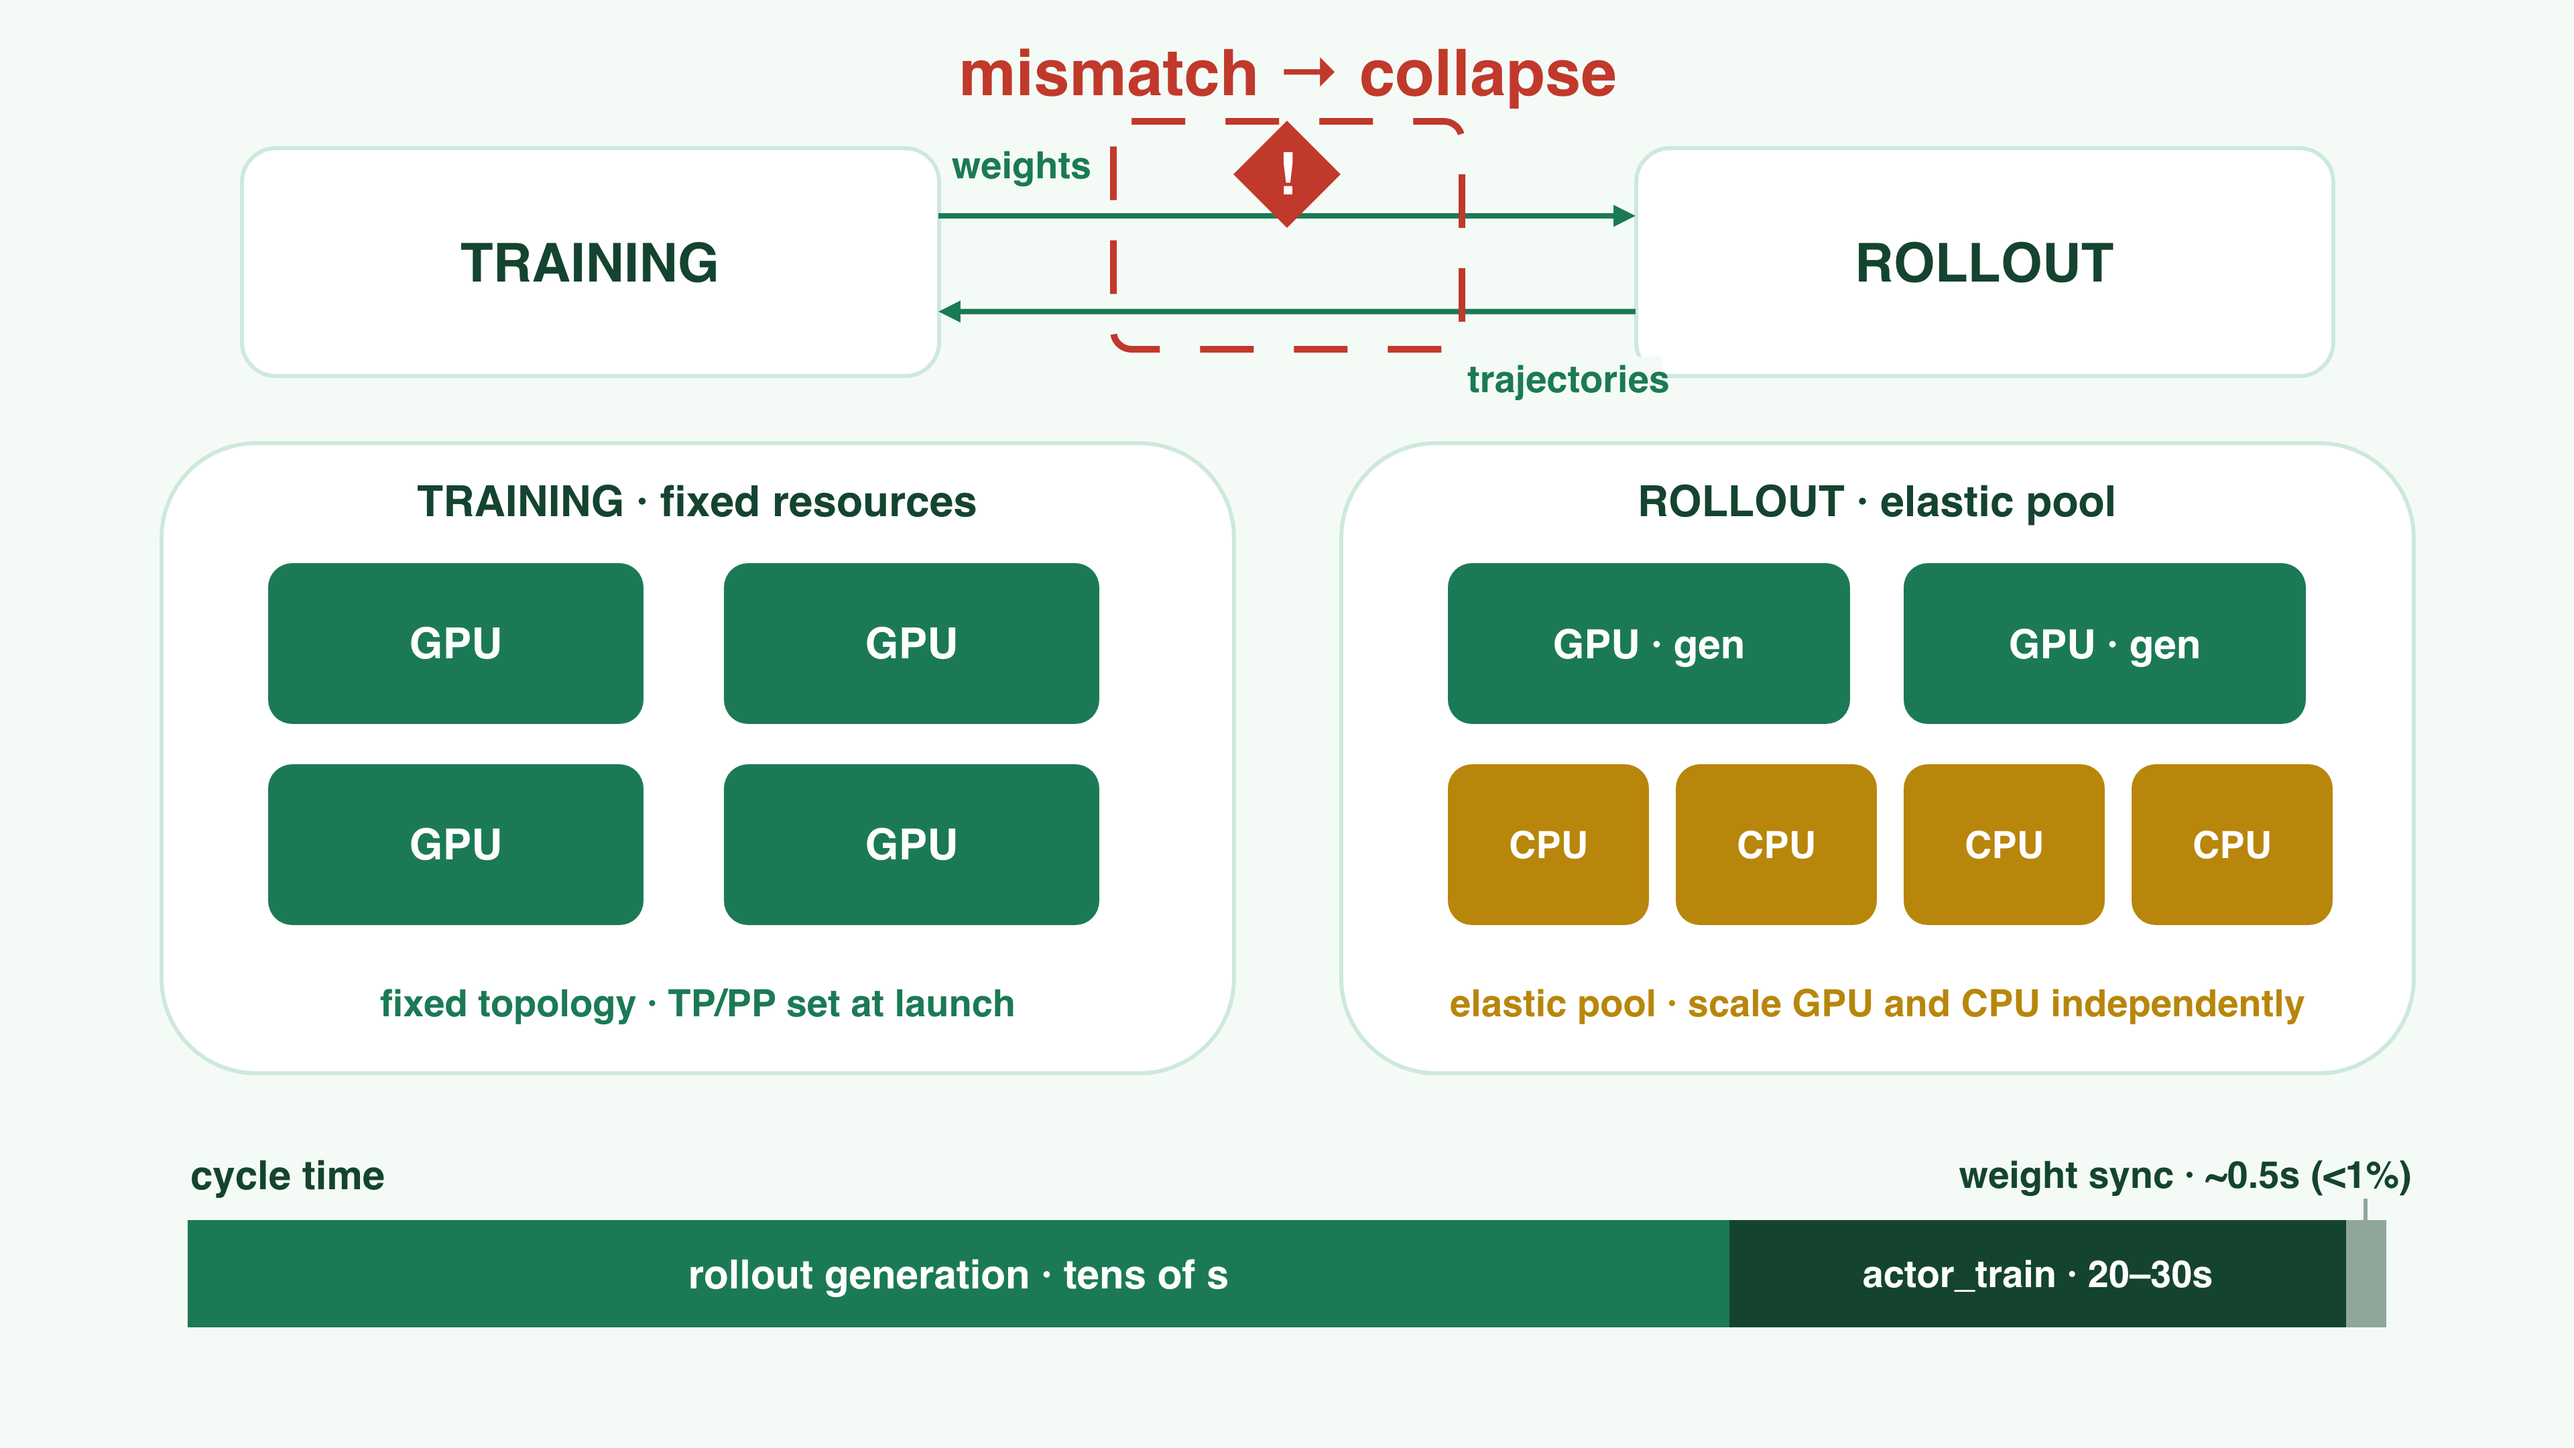
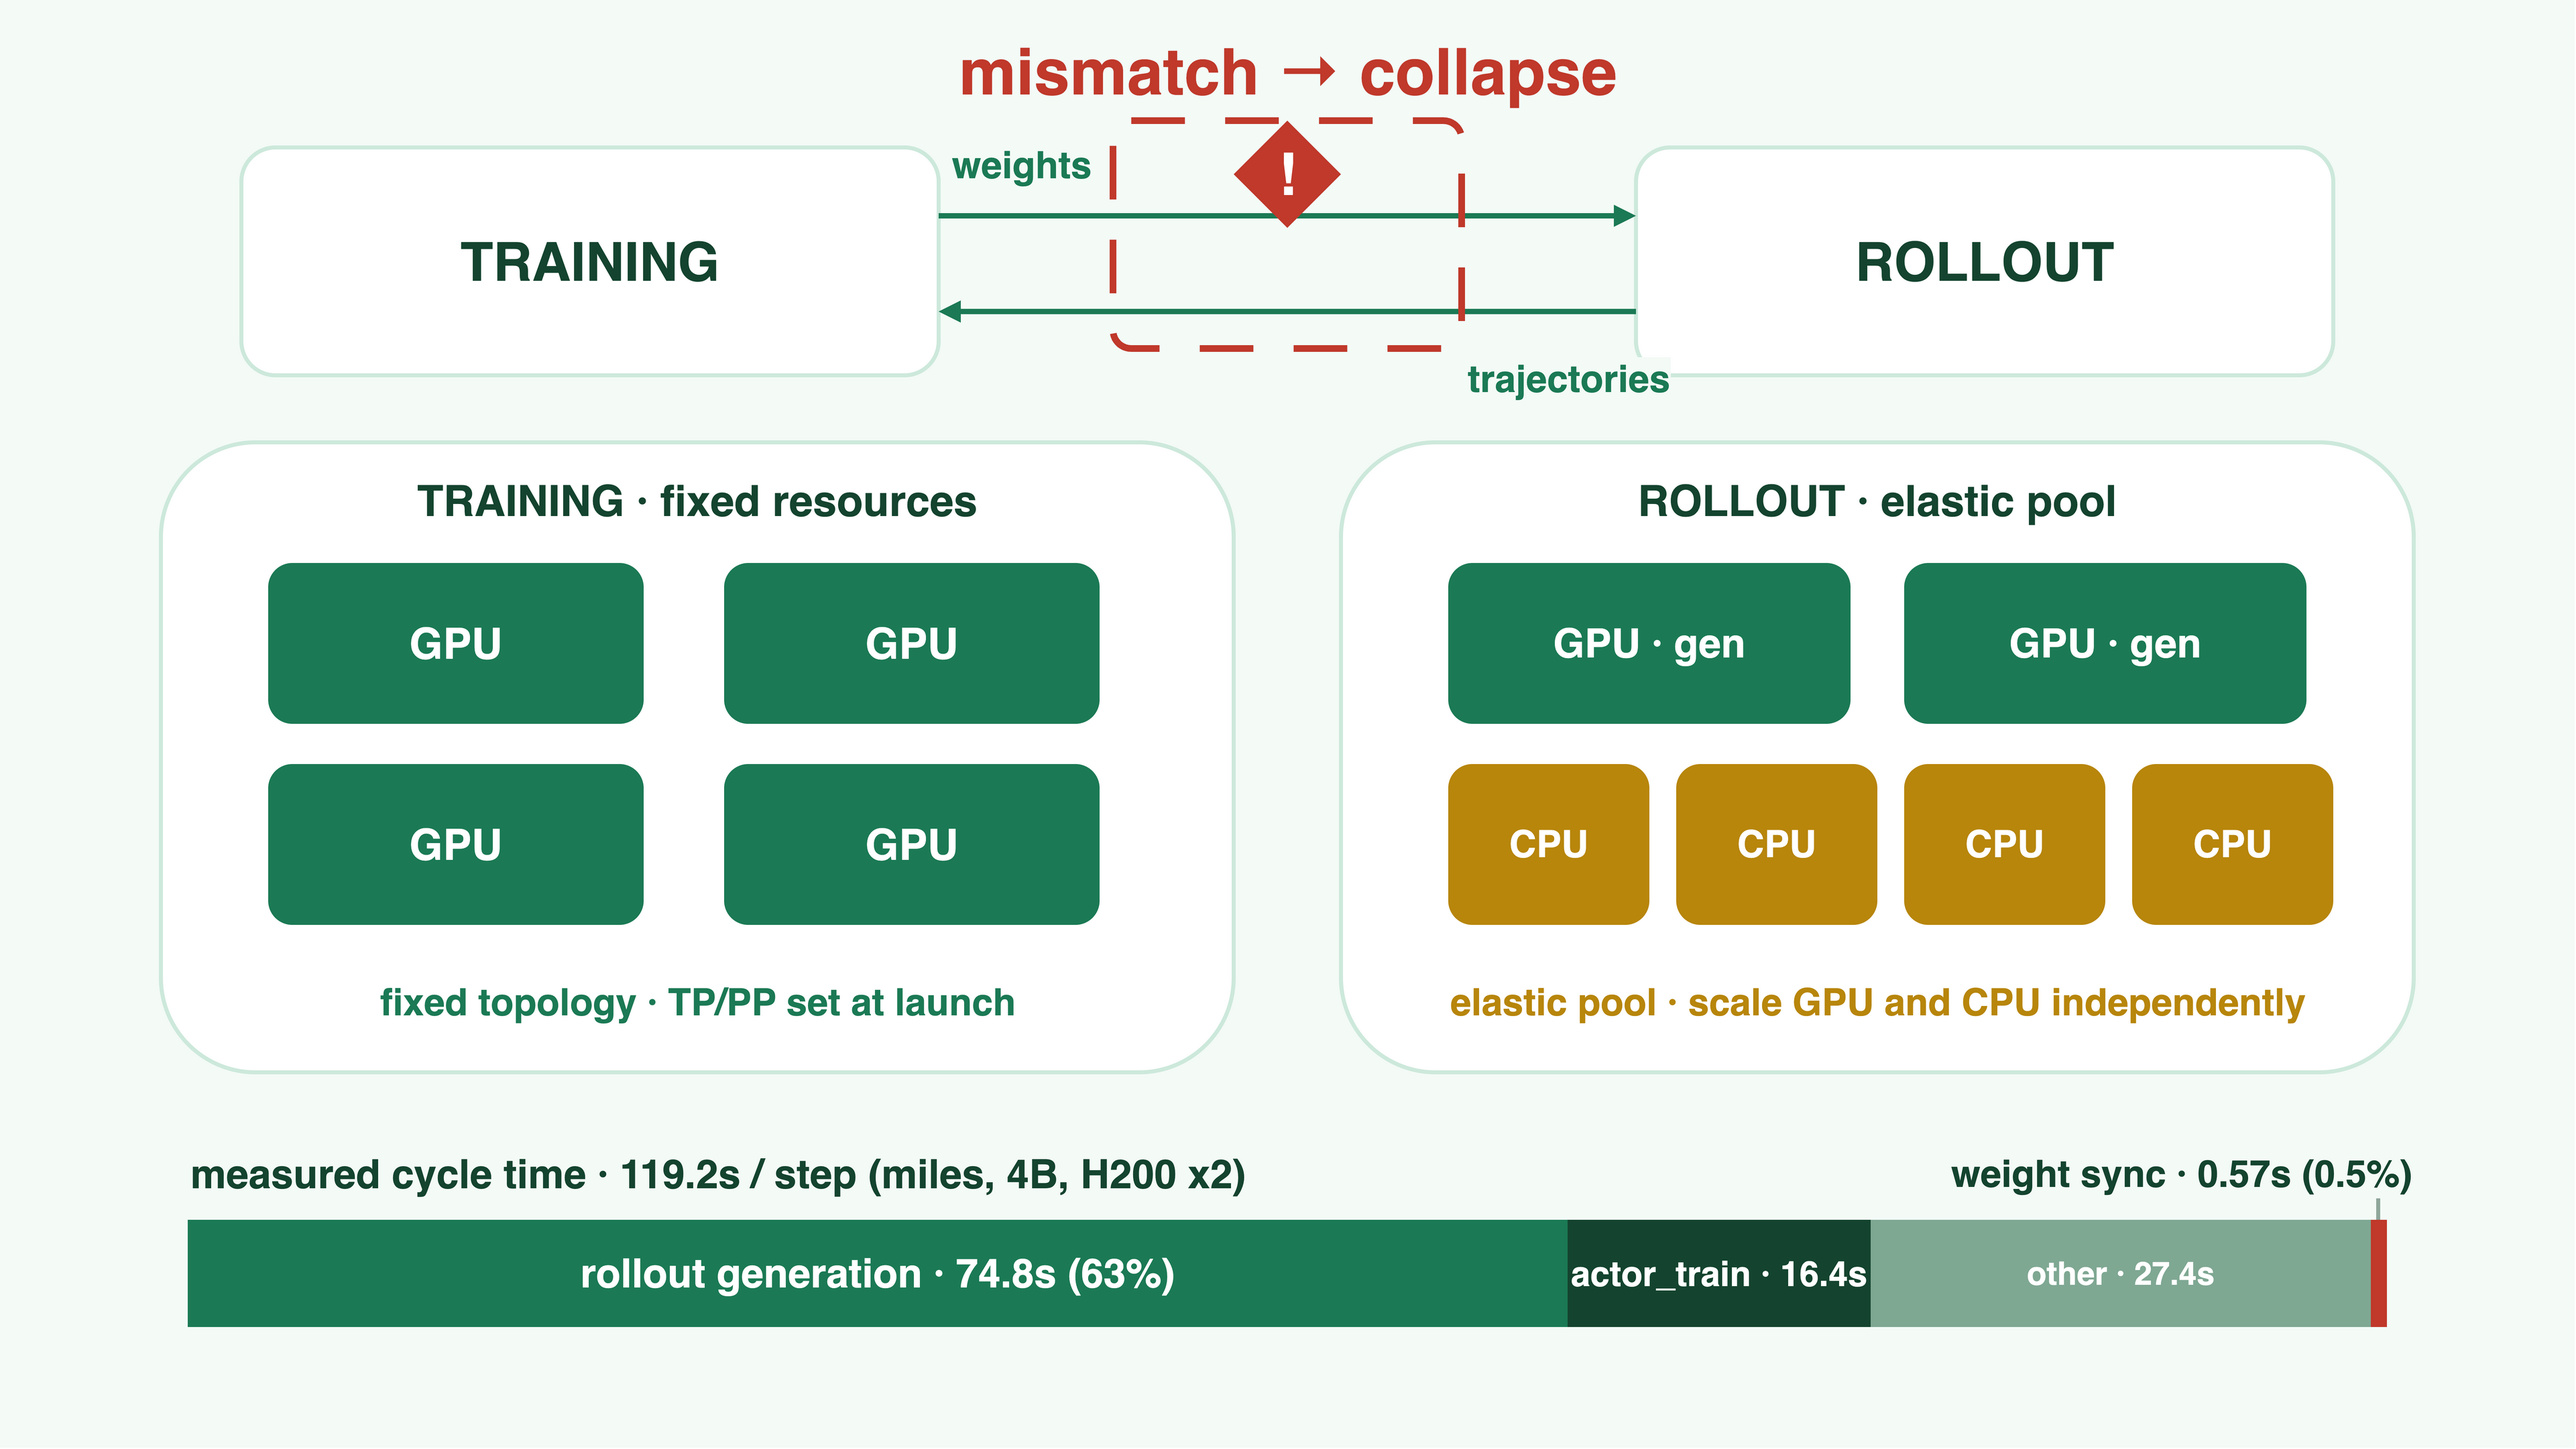
talk(mismatch): use measured cycle-time on slide5; fix slide14 T^2 misattribution
slide5 cycle bar now reflects miles-2node-4b (119.2s/step, rollout 74.8s, actor_train 16.4s, weight sync 0.57s). slide14 drops the step-axis O(T^2)/O(T) dashed lines and the eps.T^2 callout (T is response length, a within-step bound; the step-axis divergence is step-to-step feedback). Speaker notes updated accordingly.

diff --git a/2026-07-19-miles-training-inference-mismatch/talk/slides/speaker_notes.md b/2026-07-19-miles-training-inference-mismatch/talk/slides/speaker_notes.md
@@ -55,12 +55,12 @@ I am currently building a miles GRPO test case in the same repository. miles is 
 ## Slide 5 -- Beyond the network in GRPO
 
 [EN]
-This slide summarizes the three things to be aware of beyond the network when running GRPO at scale. The bottom bar shows one example of a cycle time breakdown. Rollout generation dominates at tens of seconds. actor_train, the backward pass and optimizer step, takes 20 to 30 seconds. Weight sync over the network is about 0.5 seconds, under 1 percent of the total cycle. The network matters, but it may not be the dominant cost.
+This slide summarizes the three things to be aware of beyond the network when running GRPO at scale. The bottom bar is our actual measurement, from a miles run on 4B, H200 times two: one step is 119.2 seconds. Rollout generation dominates at 74.8 seconds, about 63 percent of the step. actor_train, the backward pass and optimizer step, is 16.4 seconds here at 4B — it grows with model size, roughly 38 seconds at 30B. The rest, about 27 seconds, is mostly the reference-model log-prob pass, about 22 seconds, plus sleep and wake-up overhead. And weight sync over the network is just 0.57 seconds, half a percent of the whole step. The network matters, but in this case it was not the dominant cost.
 Now look at the two pools. Training on the left is a fixed topology. You set TP, PP, and DP at launch and it does not change while the job runs. Rollout on the right is an elastic pool. It uses both GPU for generation and CPU for environment evaluation, and you can scale them independently. These two sides scale differently, and that asymmetry is something to keep in mind when sizing a cluster.
 The red boundary at the top is the point that requires attention. The weight sync arrow and the trajectory arrow are the only information exchange between training and rollout. If the two engines compute slightly different numbers for the same tokens, that difference accumulates silently until the policy collapses. That mismatch-induced collapse is the main subject of this talk, and we go into it next.
 
 [JA]
-このスライドはGRPOをスケールで動かすときにネットワーク以外で意識すべき3つのことをまとめています。下のバーはサイクルタイムの内訳の一例です。ロールアウトの生成が数十秒で支配的です。actor_train、つまりbackwardとoptimizer更新が20から30秒です。ネットワーク経由のweight syncは約0.5秒、サイクル全体の1%未満です。ネットワークは重要ですが、支配的なコストではない可能性があります。
+このスライドはGRPOをスケールで動かすときにネットワーク以外で意識すべき3つのことをまとめています。下のバーは実際の今回の実測で、milesの4B、H200×2のrunです。1ステップが119.2秒です。ロールアウトの生成が74.8秒で支配的、ステップ全体の約63%です。actor_train、つまりbackwardとoptimizer更新は、ここでは4Bで16.4秒です。これはモデルサイズとともに伸び、30Bなら約38秒です。残りの約27秒は、大半が参照モデルのlog-prob計算で約22秒、それにsleepやwake-upのオーバーヘッドが乗ります。そしてネットワーク経由のweight syncはわずか0.57秒、ステップ全体の0.5%です。ネットワークは重要ですが、今回のケースでは支配的なコストではありませんでした。
 次に2つのプールを見てください。左のtrainingは固定トポロジーです。TP、PP、DPを起動時に設定したら、ジョブの実行中は変わりません。右のrolloutは弾性プールです。生成用のGPUと環境評価用のCPUを使い、それぞれ独立にスケールできます。この2つのスケールの仕方が違うことは、クラスタのサイジングで意識しておくべき点です。
 上部の赤い境界が注意が必要なポイントです。weightsの矢印とtrajectoriesの矢印が、trainingとrolloutの間の唯一の情報交換です。もし2つのエンジンが同じトークンに対して微妙に異なる数値を計算していたら、その差がサイレントに蓄積し、最終的にポリシーが崩壊します。このmismatch起因の崩壊が今日の本題であり、次から詳しく見ていきます。
 
@@ -150,13 +150,15 @@ miles already ships the TIS machinery, so enabling it is just a config file. Her
 [JA]
 miles はもともと TIS の仕組みを持っているので、有効にするのは設定ファイルを書くだけです。今回まさに設定したのがこれです。効いているのは6行目の tis_upper_bound 2.0、これがキャップです。重要度比が 2.0 を超えたら 2.0 に切り詰めます。分散爆発の元栓です。そのあと8行目の tis_batch_normalize true が、生き残った重みを batch の平均 1.0 に戻し、切り詰めで全体のスケールがずれないようにします。7行目の rejection sampling の veto を含む他のフラグはデフォルトのままで、今日は説明しません。次のスライドで効いてくるのは6行目のキャップだからです。
 
-## Slide 14 -- Our measurement: T² collapse vs TIS-flattened
+## Slide 14 -- Our measurement: mismatch runs away without TIS, stays flat with it
 
 [EN]
-Now the same T² picture, but with our actual numbers, all 30 steps straight from TensorBoard. The red curve is TIS off: mis_kl starts at 0.032, is still quiet through the first several steps, and then climbs stage by stage -- past 0.4 around step 14, past 1 around step 17, and up to 31.8 by step 29. It runs away. The red dashed line is an illustrative epsilon-times-T-squared curve with epsilon 0.035, drawn to show the shape of the ceiling; the measured red curve rises underneath it. The blue curve is TIS on: it never leaves the floor, peaking around 0.15 and ending near 0.07 over the full 30 steps, and it tracks the illustrative O(T) line. The faint bands are the min-max over three seeds -- the collapse arms all blow up, the TIS arms all stay flat. The number I want you to take away is at the start versus the end: the epsilon that anchors the T-squared curve, 0.035, is essentially the step-0 mis_kl, 0.032. So one step's worth of mismatch is what got amplified about a thousand-fold by step 29. Turning on the cap flattens that into the O(T) line. Two honest caveats: the epsilon-T-squared and epsilon-T lines are illustrative fits, not the paper's constants, and I only ran 30 steps, so "flat here" is not "flat forever."
+Here is what we actually measured, all 30 steps straight from TensorBoard. The red curve is TIS off: mis_kl starts at 0.032, is quiet through the first several steps, then climbs stage by stage -- past 0.4 around step 14, past 1 around step 17, and up to 31.8 by step 29. It runs away, roughly a thousand-fold. Notice the shape on this log axis: it is close to a straight line, which means exponential growth. That is the signature of a step-to-step positive feedback loop -- mismatch biases the gradient, the biased update drifts the policy, and that widens the mismatch on the next step. The blue curve is TIS on: it never leaves the floor, peaking around 0.15 and ending near 0.07, and the faint bands are the min-max over three seeds -- every collapse arm blows up, every TIS arm stays flat. Turning on the cap of 2.0 breaks that feedback loop.
+One important clarification, because the title of the previous slide mentioned T squared. The paper's O(T squared) bound is about T as response length, within a single gradient step -- it bounds how much error one long sequence can carry. It does not predict how mis_kl grows across training steps. I did not measure per-step response length here, so I deliberately do not draw a T-squared curve on this step axis. And I only ran 30 steps, so "flat here" is not "flat forever."
 
 [JA]
-同じ T の2乗の絵を、今度は実測値で見せます。全30ステップ、TensorBoard からそのまま出しています。赤い曲線が TIS オフです。mis_kl は 0.032 から始まり、最初の数ステップは静かで、そこから段階的に登ります。ステップ14前後で 0.4 を超え、ステップ17前後で 1 を超え、ステップ29で 31.8 まで達します。暴走です。赤い破線は illustrative な イプシロン かける T の2乗の曲線で、イプシロンは 0.035、天井の形を示すために描いています。実測の赤い曲線はその下を登ります。青い曲線が TIS オンです。30ステップを通じて床から離れず、最大でも 0.15 程度、最後は 0.07 付近で終わり、illustrative な O(T) の線をなぞります。薄い帯は3シードの min-max で、崩壊アームは全部暴走し、TIS アームは全部平坦です。持ち帰ってほしい数字は最初と最後の対比です。T の2乗の曲線を固定するイプシロン 0.035 は、ステップ0の mis_kl 0.032 とほぼ同じです。つまり1ステップ分のミスマッチが、ステップ29までにおよそ千倍に化けたということです。キャップを入れると、それが O(T) の線まで平坦化します。正直な注記が二つ。イプシロン かける T の2乗、およびイプシロン かける T の線は illustrative なフィットで、論文の定数ではありません。そして私は30ステップしか回していないので、「ここで平坦」は「永遠に平坦」ではありません。
+これが実際に測定したもので、全30ステップを TensorBoard からそのまま出しています。赤い曲線が TIS オフです。mis_kl は 0.032 から始まり、最初の数ステップは静かで、そこから段階的に登ります。ステップ14前後で 0.4 を超え、ステップ17前後で 1 を超え、ステップ29で 31.8、およそ千倍まで暴走します。この log 軸での形に注目してください。ほぼ直線、つまり指数的な増大です。これは step をまたいだ正のフィードバックループの兆候です。ミスマッチが勾配をバイアスし、バイアスした更新が方策をdrift させ、それが次のステップのミスマッチをさらに広げる、というループです。青い曲線が TIS オンです。30ステップを通じて床から離れず、最大でも 0.15 程度、最後は 0.07 付近で終わります。薄い帯は3シードの min-max で、崩壊アームは全部暴走し、TIS アームは全部平坦です。キャップ 2.0 を入れると、このフィードバックループが断ち切られます。
+一つ大事な補足です。前のスライドのタイトルで T の2乗に触れたので明確にしておきます。論文の O(T の2乗) の上界は、T が応答長で、1回の勾配ステップの中の話です。1つの長い系列がどれだけ誤差を運びうるかの上界であって、mis_kl が学習ステップをまたいでどう増えるかは何も予言しません。このチャートはステップ軸なので、論文の T の2乗則ではなく、測定されたフィードバック発散として読んでください。そして30ステップしか回していないので、「ここで平坦」は「永遠に平坦」ではありません。
 
 ## Slide 15 -- Key takeaways
 
